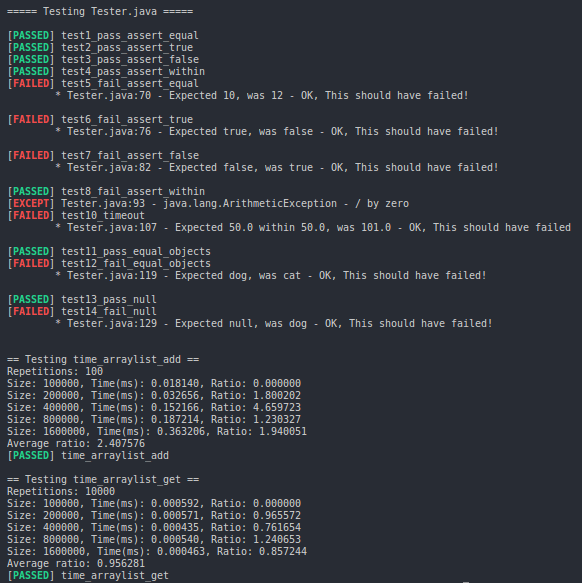
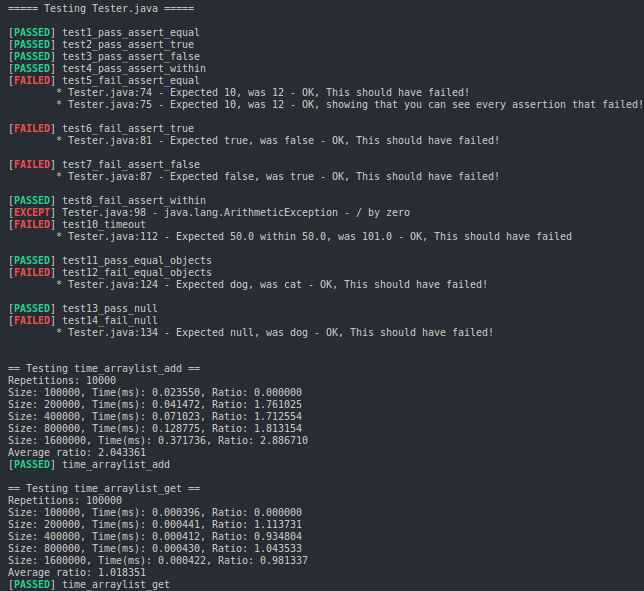
update screenshot

Changed region(s): [[0.0, 0.0, 1.0, 1.0], [0.7732, 0.5249, 0.8351, 0.5866]]

diff --git a/tests/Tester.java b/tests/Tester.java
@@ -1,3 +1,4 @@
+
 /**
  *  Demonstration / Tests for student-java-tester
  * 
@@ -108,7 +109,7 @@ public class Tester {
 
         double timeout_ms = 1000;
         Test.ASSERT_WITHIN_TIMEOUT(timeout_ms, nSquared);
-        Test.ASSERT_WITHIN_TIMEOUT_MESSAGE(timeout_ms/10, nSquared, "OK, This should have failed");
+        Test.ASSERT_WITHIN_TIMEOUT_MESSAGE(timeout_ms / 10, nSquared, "OK, This should have failed");
     }
 
     public static void test11_pass_equal_objects() {
@@ -144,7 +145,7 @@ public class Tester {
             return result;
         };
 
-        int repeats_for_given_size = 100;
+        int repeats_for_given_size = 10000;
         int initial_arraylist_size = 100000;
         Test.TIME_EXPERIMENT(repeats_for_given_size, initial_arraylist_size, arrayListGenerator,
                 Tester::arraylist_test);
@@ -154,7 +155,7 @@ public class Tester {
     // Non-lambda function representing the test that should be run on the arraylist generated above
     private static void arraylist_test(Integer size, ArrayList<Integer> data) {
         data.add(0, 0);
-        data.remove(data.size()-1);
+        data.remove(data.size() - 1);
     }
 
     public static void time_arraylist_get() {
@@ -174,9 +175,8 @@ public class Tester {
             data.get(0);
         };
 
-        int repeats_for_given_size = 10000;
+        int repeats_for_given_size = 100000;
         int initial_arraylist_size = 100000;
-        Test.TIME_EXPERIMENT(repeats_for_given_size, initial_arraylist_size, arrayListGenerator,
-               get);
+        Test.TIME_EXPERIMENT(repeats_for_given_size, initial_arraylist_size, arrayListGenerator, get);
     }
 }
